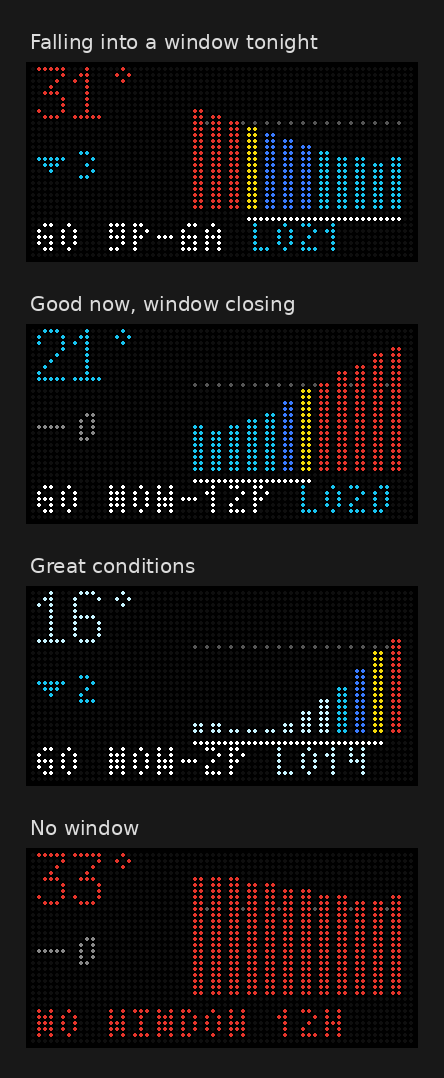
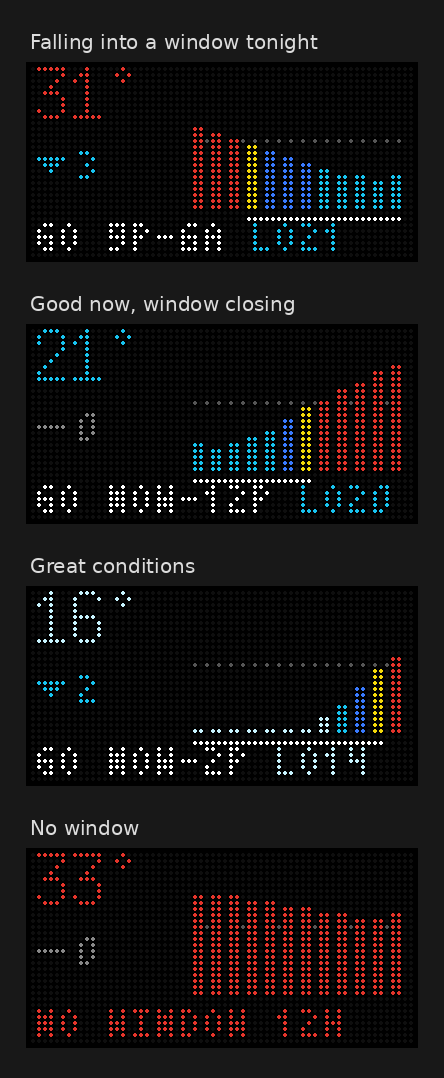
Package as reusable template: config via repo variables, 30 min schedule, show below 40F

diff --git a/tests/run_tests.py b/tests/run_tests.py
@@ -84,7 +84,7 @@ def obs_literal(wb_f, age_min):
     if wb_f is None:
         return "None"
     t, td = td_for_wb(wb_f)
-    return '{"t": %s, "td": %s, "age_min": %s}' % (t, td, age_min)
+    return '{"t": %s, "td": %s, "age_min": %s, "station": "KTEST"}' % (t, td, age_min)
 
 
 def app_source(rename_main=False):
@@ -142,9 +142,9 @@ def main():
             cells.append((tf, h, int(v), t, tdc))
     lines = ",".join("(%d,%d,%d,%r,%r)" % cell for cell in cells)
     grid = """
-def fetch_forecast(lat, lon, tz):
+def fetch_forecast(lat, lon, tz, ua):
     return None
-def fetch_obs(station, now):
+def fetch_obs(station, lat, lon, now, ua):
     return None
 def main(config):
     for tf, h, v, t, td in [%s]:
@@ -163,9 +163,9 @@ def main(config):
     # 2. Render scenarios
     for name, start, now_wb, series, age, expect in SCENARIOS:
         extra = """
-def fetch_forecast(lat, lon, tz):
+def fetch_forecast(lat, lon, tz, ua):
     return %s
-def fetch_obs(station, now):
+def fetch_obs(station, lat, lon, now, ua):
     return %s
 """ % (forecast_literal(start, series), obs_literal(now_wb, age))
         r, made = run(name, extra, ["hide_above=0"])
@@ -178,9 +178,9 @@ def fetch_obs(station, now):
 
     # 3. Stale obs -> Open-Meteo fallback
     extra = """
-def fetch_forecast(lat, lon, tz):
+def fetch_forecast(lat, lon, tz, ua):
     return %s
-def fetch_obs(station, now):
+def fetch_obs(station, lat, lon, now, ua):
     return %s
 """ % (forecast_literal(17, SCENARIOS[0][3], current_wb_f=30), obs_literal(25, 180))
     r, made = run("stale_obs", extra)
@@ -190,9 +190,9 @@ def fetch_obs(station, now):
 
     # 4. Missing obs -> fallback
     extra = """
-def fetch_forecast(lat, lon, tz):
+def fetch_forecast(lat, lon, tz, ua):
     return %s
-def fetch_obs(station, now):
+def fetch_obs(station, lat, lon, now, ua):
     return None
 """ % forecast_literal(17, SCENARIOS[0][3])
     r, made = run("no_obs", extra)
@@ -200,12 +200,12 @@ def fetch_obs(station, now):
     failures += not ok
     print("%s missing obs falls back to open-meteo" % ("PASS" if ok else "FAIL"))
 
-    # 5. Warm -> hidden (no output file)
-    warm = [45, 46, 47, 47, 46, 45, 44, 43, 42, 41, 40, 40, 39]
+    # 5. Warm -> hidden (no output file); boundary: all >= 40F
+    warm = [45, 46, 47, 47, 46, 45, 44, 43, 42, 41, 40, 40, 40]
     extra = """
-def fetch_forecast(lat, lon, tz):
+def fetch_forecast(lat, lon, tz, ua):
     return %s
-def fetch_obs(station, now):
+def fetch_obs(station, lat, lon, now, ua):
     return %s
 """ % (forecast_literal(13, warm), obs_literal(45, 20))
     r, made = run("hidden", extra)
@@ -213,11 +213,24 @@ def fetch_obs(station, now):
     failures += not ok
     print("%s warm forecast renders nothing (exit %d, file=%s)" % ("PASS" if ok else "FAIL", r.returncode, made))
 
+    # 5b. Cooling to 39F anywhere in the 12h -> shown
+    cooling = [45, 46, 47, 47, 46, 45, 44, 43, 42, 41, 40, 40, 39]
+    extra = """
+def fetch_forecast(lat, lon, tz, ua):
+    return %s
+def fetch_obs(station, lat, lon, now, ua):
+    return %s
+""" % (forecast_literal(13, cooling), obs_literal(45, 20))
+    r, made = run("cooling", extra)
+    ok = made and "hidden:" not in (r.stdout + r.stderr)
+    failures += not ok
+    print("%s cooling to 39F renders a frame" % ("PASS" if ok else "FAIL"))
+
     # 6. Forecast down -> error frame
     extra = """
-def fetch_forecast(lat, lon, tz):
+def fetch_forecast(lat, lon, tz, ua):
     return None
-def fetch_obs(station, now):
+def fetch_obs(station, lat, lon, now, ua):
     return None
 """
     r, made = run("no_data", extra)

diff --git a/README.md b/README.md
@@ -1,72 +1,112 @@
 # Tidbyt Wet Bulb
 
-Shows snowmaking conditions for Wakefield, MA on a Tidbyt: current wet bulb, the 3-hour trend, a 12-hour forecast chart, and the best snowmaking window. Updated hourly by GitHub Actions.
+A [Tidbyt](https://tidbyt.com) app for backyard snowmaking. It shows the current wet bulb temperature, the 3-hour trend, a 12-hour forecast chart, and the best snowmaking window for your location. GitHub Actions updates it every 30 minutes - no server, no local machine.
 
 ![Preview](docs/preview.png)
 
-## Display
+## What it shows
 
 | Area | Meaning |
 |---|---|
 | Big number (top left) | Current wet bulb (F), colored by zone |
 | Arrow + number | Change over the next 3 hours (cyan ▼ falling, orange ▲ rising, gray - flat) |
-| Bars (right) | Next 12 hours, one bar per hour, colored by zone. Scale is 1px per degree (14F floor, 37F ceiling) |
-| Dotted line | 28F - bars crossing it are in the no-go zone |
+| Bars (right) | Next 12 hours, one bar per hour, colored by zone. 1px per degree, 17F floor, 40F ceiling |
+| Dotted line | 28F - bars above it are in the no-go zone |
 | White underline | Best window - longest run of hours at 27F or colder |
 | Bottom row | `GO start-end LO##` (window and its lowest wet bulb), or `NO WINDOW 12H` |
 
-### Zones (Backyard Snowstorm snowmaking chart)
+It only appears on your Tidbyt when the current wet bulb or any of the next 12 hours is at or below 39F (configurable). The rest of the time it removes itself from the rotation.
+
+### Snowmaking zones
+
+Based on the Backyard Snowstorm snowmaking chart.
 
 | Wet bulb | Zone | Color |
 |---|---|---|
-| 19F and below | Great | Pale cyan |
-| 20-23F | Good | Cyan |
-| 24-26F | Marginal | Blue |
+| 19F and below | Great - light, dry snow | Pale cyan |
+| 20-23F | Good - dry, packable | Cyan |
+| 24-26F | Marginal - dense, heavy | Blue |
 | 27F | Wet snow | Yellow |
 | 28F and above | No go | Red |
 
-## Data
+## Set it up for your location
+
+You need a Tidbyt and a GitHub account. About 10 minutes.
+
+### 1. Copy the repo
+Click **Use this template > Create a new repository** (or fork it). Public repos get unlimited free GitHub Actions minutes, so public is the simplest choice - your keys stay in Secrets either way.
+
+### 2. Get your Tidbyt keys
+In the Tidbyt mobile app: **Settings > General > Get API Key**. Copy the **Device ID** and **API Key**.
+
+### 3. Add secrets
+Repo **Settings > Secrets and variables > Actions > Secrets > New repository secret**:
+
+| Secret | Value |
+|---|---|
+| `TIDBYT_DEVICE_ID` | Device ID from step 2 |
+| `TIDBYT_API_KEY` | API Key from step 2 |
+
+### 4. Add variables
+Same page, **Variables** tab > **New repository variable**:
+
+| Variable | Required | Example | Notes |
+|---|---|---|---|
+| `LAT` | Yes | `42.5039` | Your latitude (4 decimals is plenty) |
+| `LON` | Yes | `-71.0723` | Your longitude, negative for the western hemisphere |
+| `STATION` | No | `KBED` | NWS station for the current reading. Blank = nearest station |
+| `HIDE_ABOVE` | No | `39` | Hide the app when nothing in the next 12h is at or below this (F). `0` = always show |
+| `TIMEZONE` | No | `America/New_York` | Blank = the location's own timezone |
+| `INSTALLATION_ID` | No | `wetbulb` | Only change if you run more than one copy on the same Tidbyt |
+
+**Picking a station:** open `https://api.weather.gov/points/<LAT>,<LON>/stations` in a browser to see nearby stations, nearest first. An inland airport usually tracks a backyard better than a coastal one.
+
+Or with the GitHub CLI:
+```
+gh secret set TIDBYT_DEVICE_ID -R <you>/<repo>
+gh secret set TIDBYT_API_KEY -R <you>/<repo>
+gh variable set LAT --body "42.5039" -R <you>/<repo>
+gh variable set LON --body "-71.0723" -R <you>/<repo>
+gh variable set STATION --body "KBED" -R <you>/<repo>
+```
+
+### 5. Turn on the workflow
+- **Forks only:** open the **Actions** tab and click **I understand my workflows, go ahead and enable them**. Template copies are enabled already.
+- Run it once: **Actions > Push Wet Bulb to Tidbyt > Run workflow**.
+- Open the run and expand **Render and push**. You should see a line like `source=nws station=KBED now_wb=32.4F ...`.
+
+If a secret or variable is missing, the **Check configuration** step fails and says which one.
+
+## How it works
 
 | Value | Source |
 |---|---|
-| Current wet bulb | NWS latest observation, station KBED (Hanscom Field), via api.weather.gov |
-| Fallback current | Open-Meteo `current` block, used when the NWS obs is missing or older than 90 min |
-| 12-hour forecast | Open-Meteo hourly temperature, dewpoint, surface pressure |
+| Current wet bulb | Latest NWS station observation (api.weather.gov) |
+| Fallback current | Open-Meteo `current` - used when the NWS reading is missing, older than 90 min, or you're outside the US |
+| 12-hour forecast | Open-Meteo hourly temperature, dewpoint and surface pressure |
 
-Wet bulb is calculated from temperature, dewpoint and pressure with an iterative psychrometric solve (Magnus vapor pressure, WMO psychrometer coefficient). It matches the Backyard Snowstorm chart on 120 of 136 test cells after rounding, never off by more than 0.71F, and agrees with MetPy to within 0.15F.
+Wet bulb is calculated from temperature, dewpoint and pressure with an iterative psychrometric solve (Magnus vapor pressure, WMO psychrometer coefficient). It matches the snowmaking chart on 120 of 136 test cells after rounding (worst 0.71F) and agrees with MetPy within 0.15F. Each run logs the calculated value next to Open-Meteo's own wet bulb as a cross-check.
 
-Weather data by [Open-Meteo.com](https://open-meteo.com) (CC BY 4.0) and the National Weather Service.
+**Schedule:** every 30 minutes at :10 and :40, year-round. When it's warm the app hides itself, so summer runs do nothing visible. A monthly keepalive job stops GitHub from pausing the schedule after 60 days without commits.
 
-## Off-season behavior
-
-- The workflow only runs October through April.
-- If the current wet bulb and all 12 forecast hours are above 34F, the app renders nothing and the workflow deletes the `wetbulb` installation, so it drops out of the Tidbyt rotation. It comes back on the first run that sees a cold enough hour.
-
-## Config
-
-Defaults live at the top of `wetbulb.star`. Override with `key=value` on `pixlet render`:
-
-| Key | Default | Notes |
-|---|---|---|
-| `lat` / `lon` | 42.5039 / -71.0723 | Wakefield, MA |
-| `station` | KBED | Any NWS station ID |
-| `tz` | America/New_York | |
-| `hide_above` | 34 | Set to 0 to always show |
-
-## GitHub Actions setup
-
-1. **Settings > Secrets and variables > Actions**, add:
-   - `TIDBYT_DEVICE_ID`
-   - `TIDBYT_API_KEY`
-   (same values as the tidbyt-meals repo)
-2. Runs hourly at :10 past the hour, Oct-Apr. Trigger manually from **Actions > Push Wet Bulb to Tidbyt > Run workflow**.
-3. Each run logs the source used, the calculated wet bulb, and Open-Meteo's own wet bulb for the current hour as a cross-check.
+**Outside the US:** works anywhere Open-Meteo covers. NWS observations are US-only, so the current reading comes from Open-Meteo instead. Display is in Fahrenheit.
 
 ## Local preview and tests
 
+Install [Pixlet](https://github.com/tidbyt/pixlet/releases) (Mac: `brew install tidbyt/tidbyt/pixlet`).
+
 ```
-pixlet serve wetbulb.star            # live data, http://localhost:8080
-PIXLET=pixlet python3 tests/run_tests.py   # offline tests, renders to tests/out/
+pixlet serve wetbulb.star                       # live preview at http://localhost:8080
+pixlet render wetbulb.star lat=44.27 lon=-71.30 hide_above=0   # any location, always show
+PIXLET=pixlet python3 tests/run_tests.py        # offline tests, renders to tests/out/
 ```
 
-The tests check the wet bulb math against the snowmaking chart (`tests/chart.csv`) and render fixture scenarios with the real app code: falling, rising, great, no-go, stale observation, missing observation, too warm (hidden), and forecast outage.
+The tests check the wet bulb math against the snowmaking chart (`tests/chart.csv`) and render fixture scenarios with the real app code: falling, rising, great, no-go, stale observation, missing observation, too warm (hidden), cooling to 39F (shown), and forecast outage.
+
+## Credits
+
+- Weather data by [Open-Meteo.com](https://open-meteo.com) (CC BY 4.0) and the National Weather Service
+- Snowmaking zones from the Backyard Snowstorm snowmaking chart
+- Built with [Pixlet](https://github.com/tidbyt/pixlet)
+
+MIT licensed - see [LICENSE](LICENSE).
